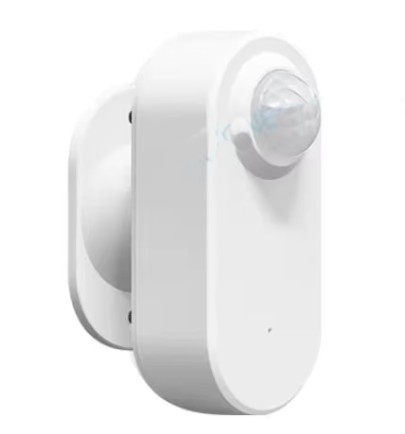
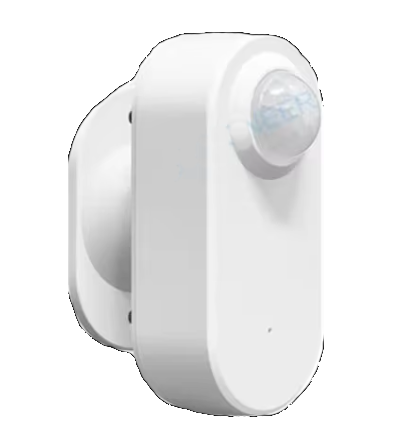
Tuya human presence + illuminance updates

diff --git a/docs/fr_FR/Changelog.md b/docs/fr_FR/Changelog.md
@@ -1,5 +1,8 @@
 # ChangeLog
 
+-   Amélioration: Tuya human presence sensor. Ajout de signatures alternatives (2727).
+-   Amélioration: Tuya human presence sensor. Mise-à-jour image (2727).
+
 ## 241008-BETA-1
 
 -   Correction: Interne: PHP8 warning.
